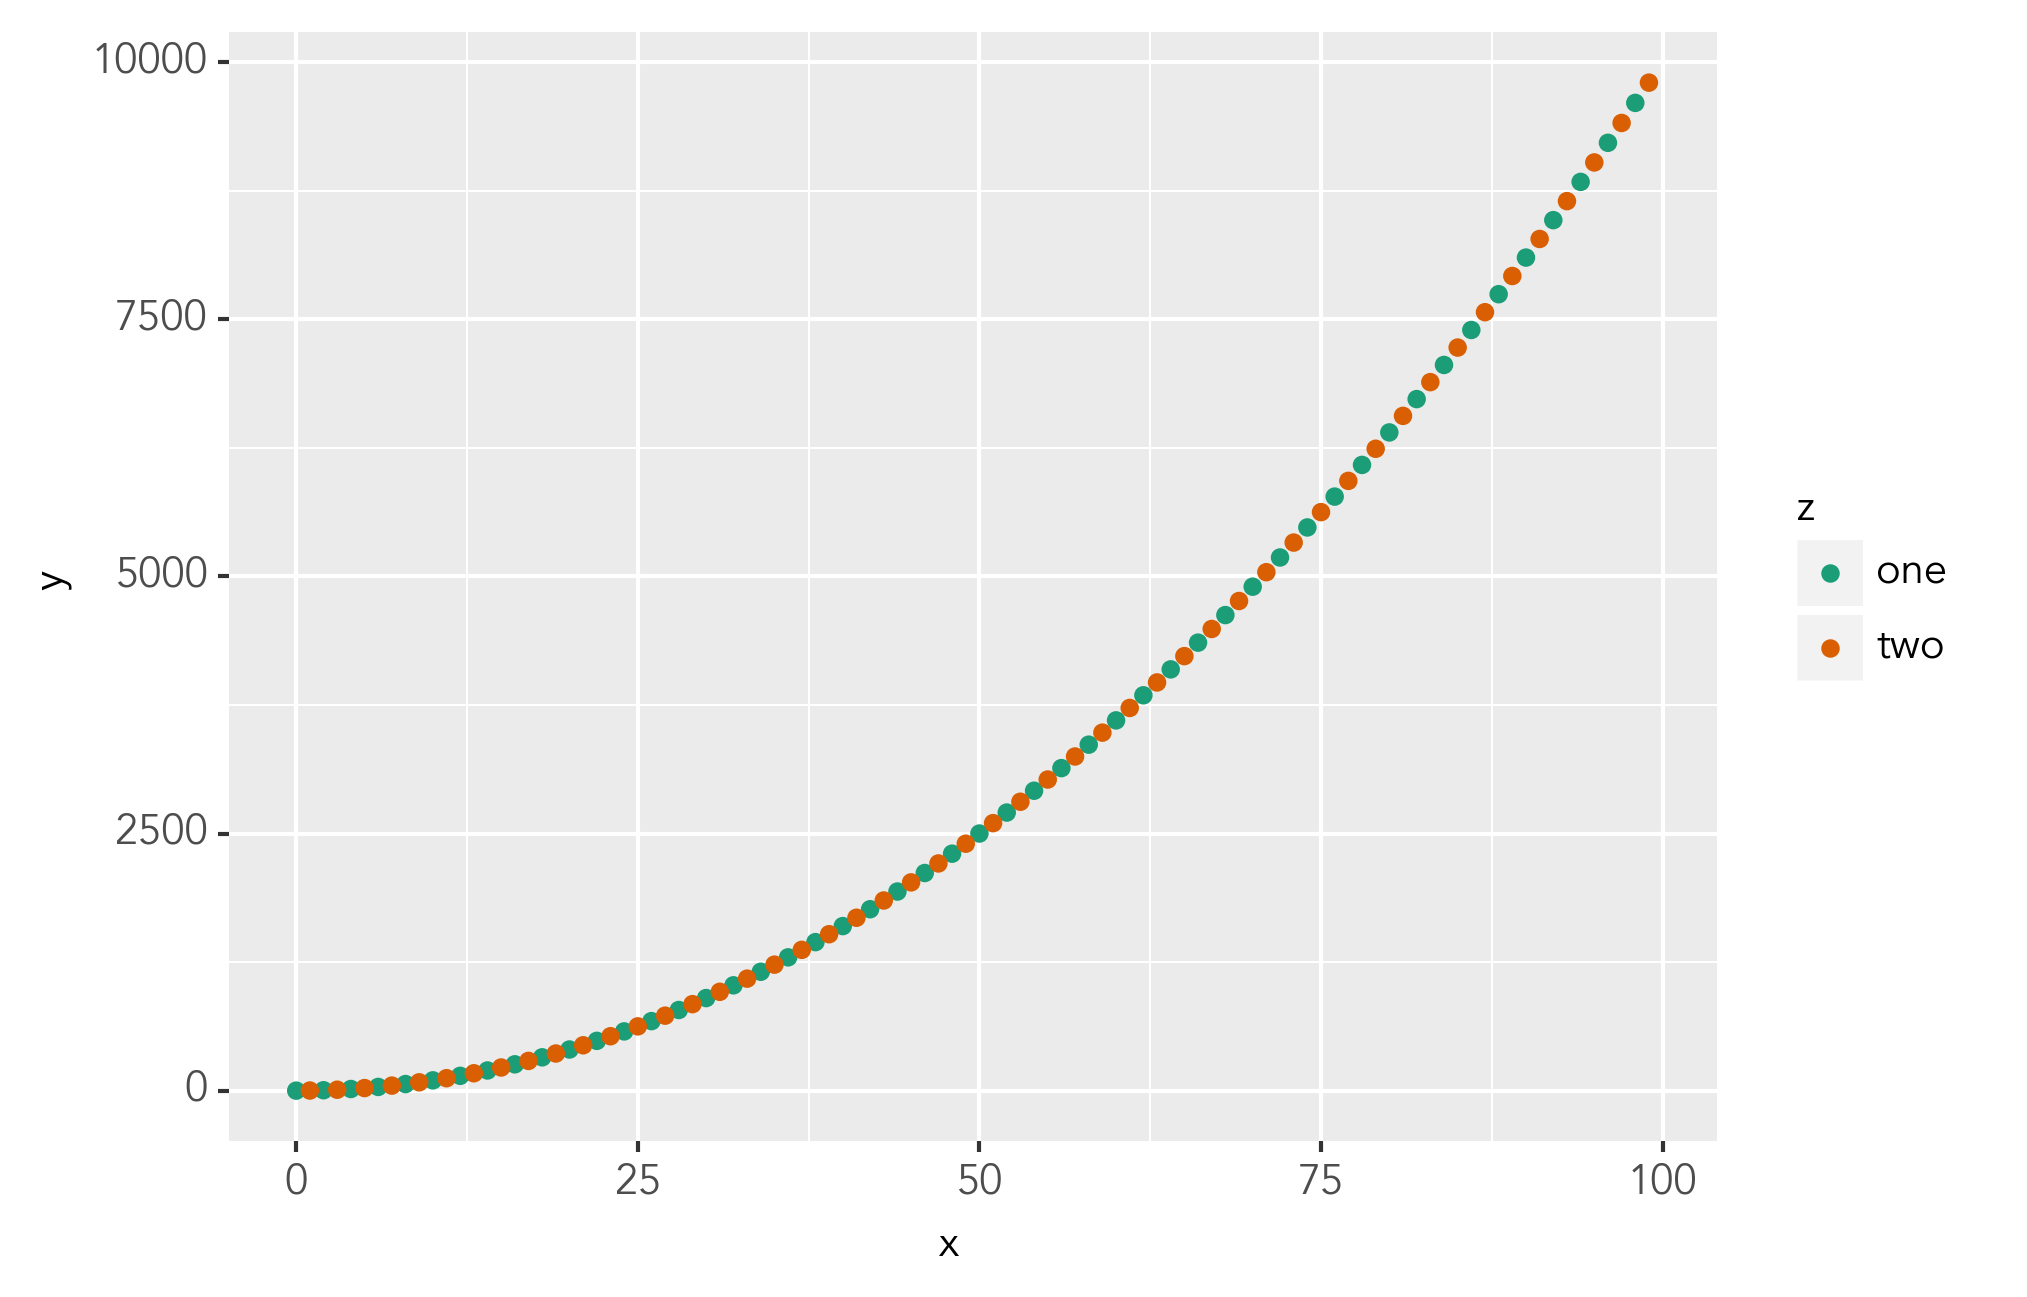
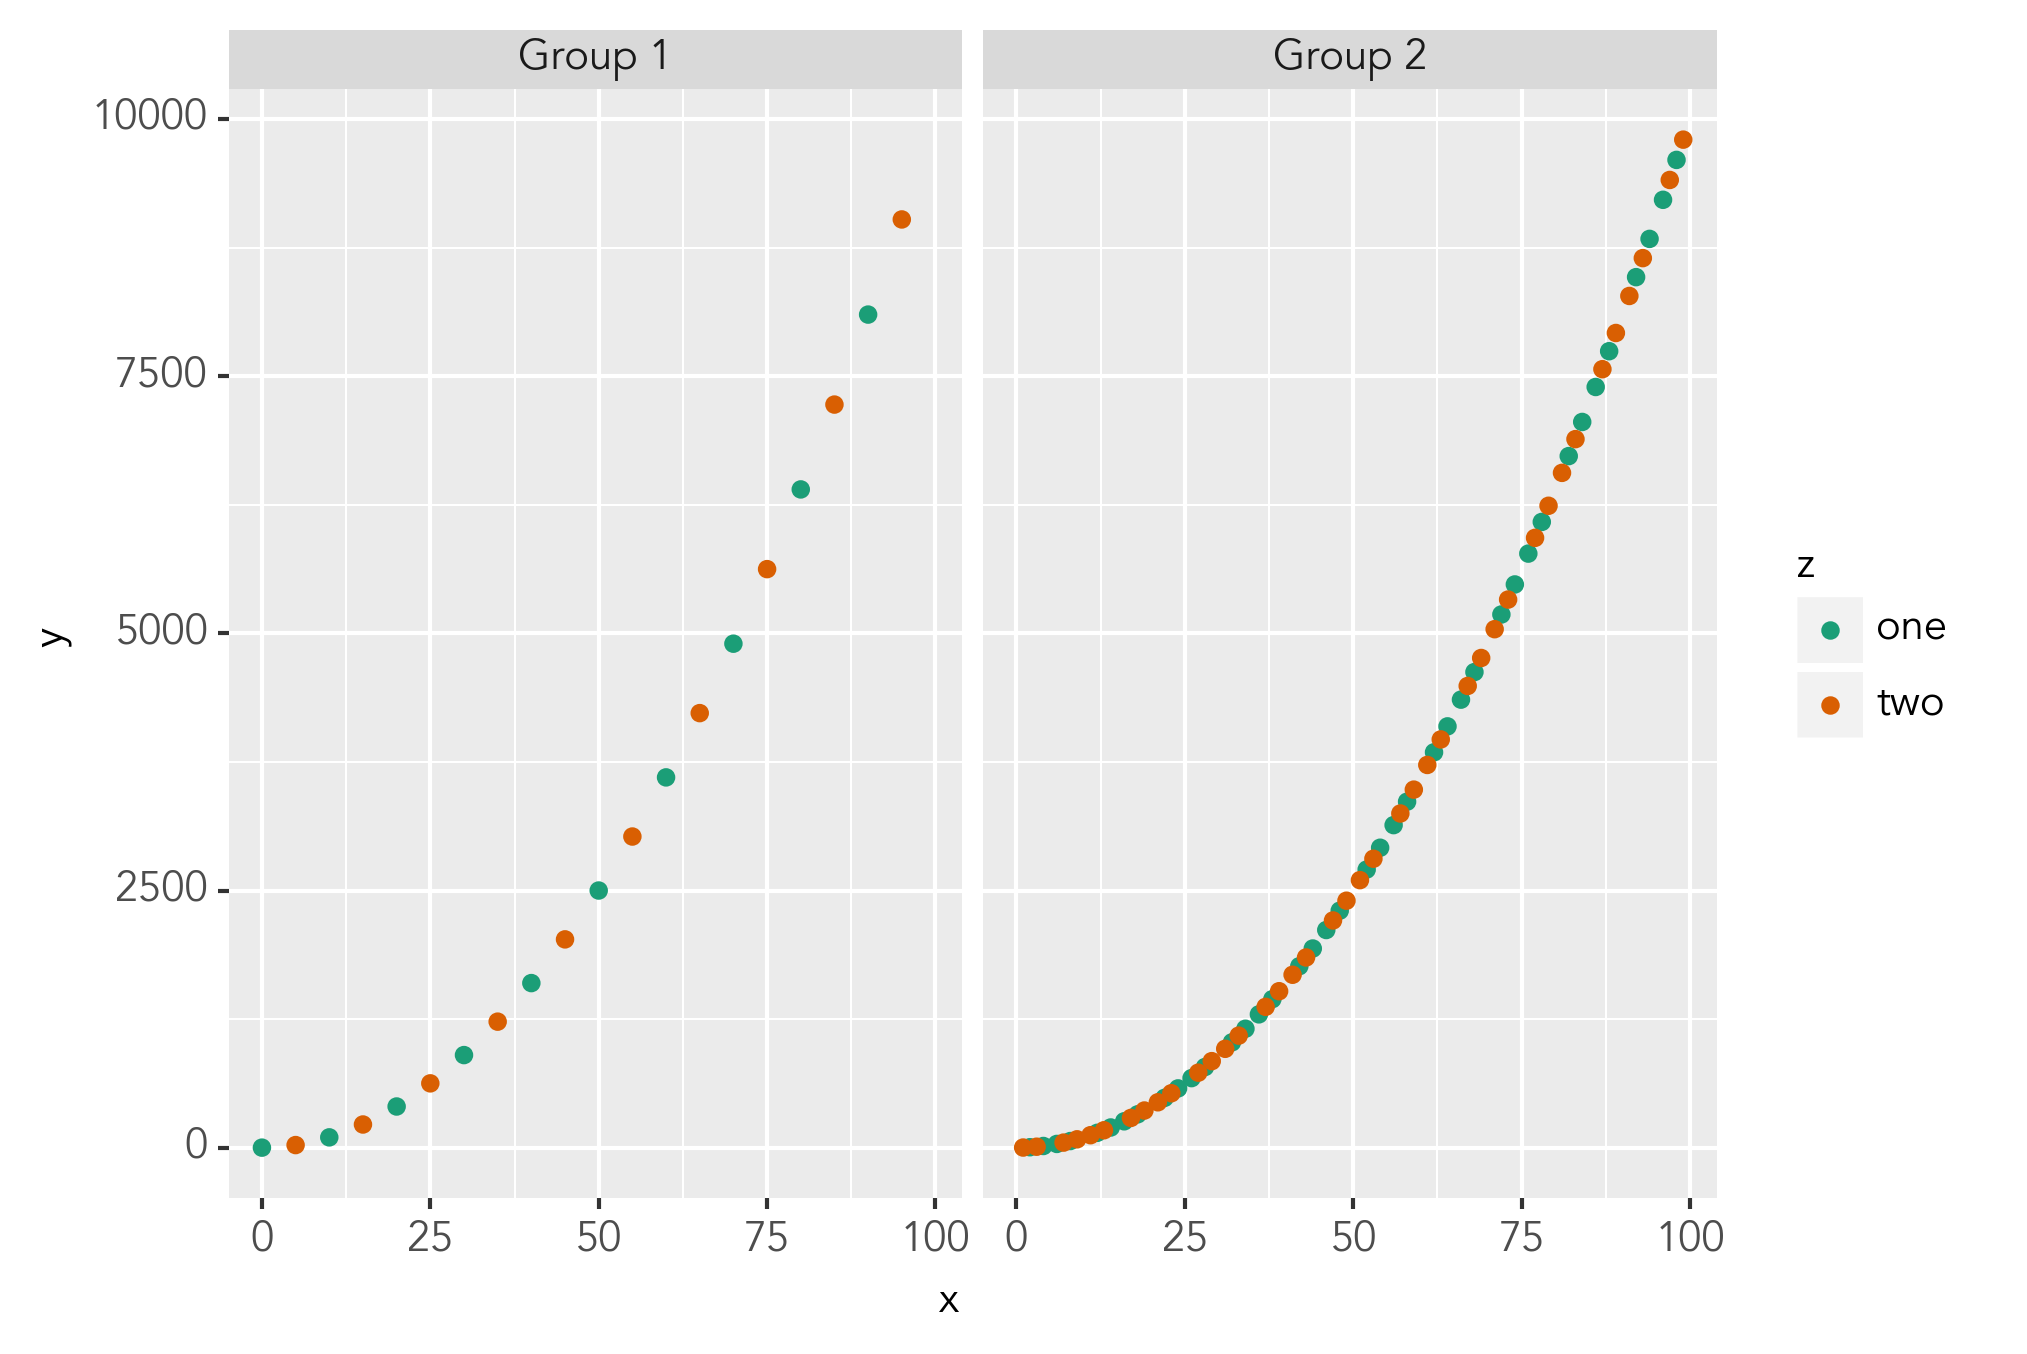
Initialisation

diff --git a/data_analysis.py b/data_analysis.py
@@ -22,6 +22,7 @@ font = fm.FontProperties(fname=fpath)
 
 df = pd.DataFrame({'x': [i for i in range(100)], 'y': [i ** 2 for i in range(100)]})
 df['z'] = ['one' if x % 2 == 0 else 'two' for x in df['x']]
+df['facet_group'] = ['Group 1' if x % 5 == 0 else 'Group 2' for x in df['x']]
 
 # --- Manipulate Data --- {{{1
 
@@ -31,9 +32,10 @@ df['z'] = ['one' if x % 2 == 0 else 'two' for x in df['x']]
 df = DplyFrame(df)
 
 plot = ( 
-df >> 
-ggplot(X._, aes('x', 'y')) +
+df >>
+ggplot(X._, aes('x','y')) +
 geom_point(aes(color = 'z')) +
+facet_grid('~facet_group') +
 theme(
     text = element_text(fontproperties = font),
     strip_text = element_text(ha = 'center', va = 'center')    
